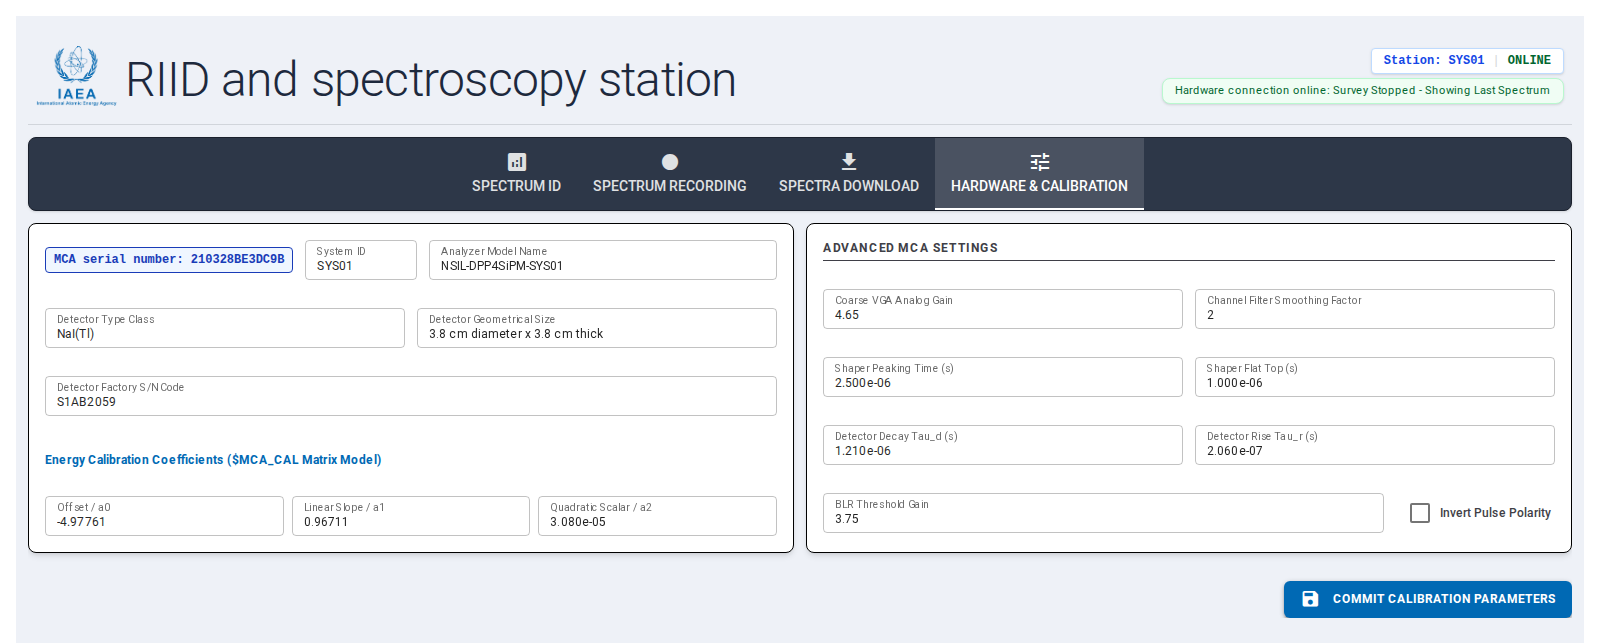
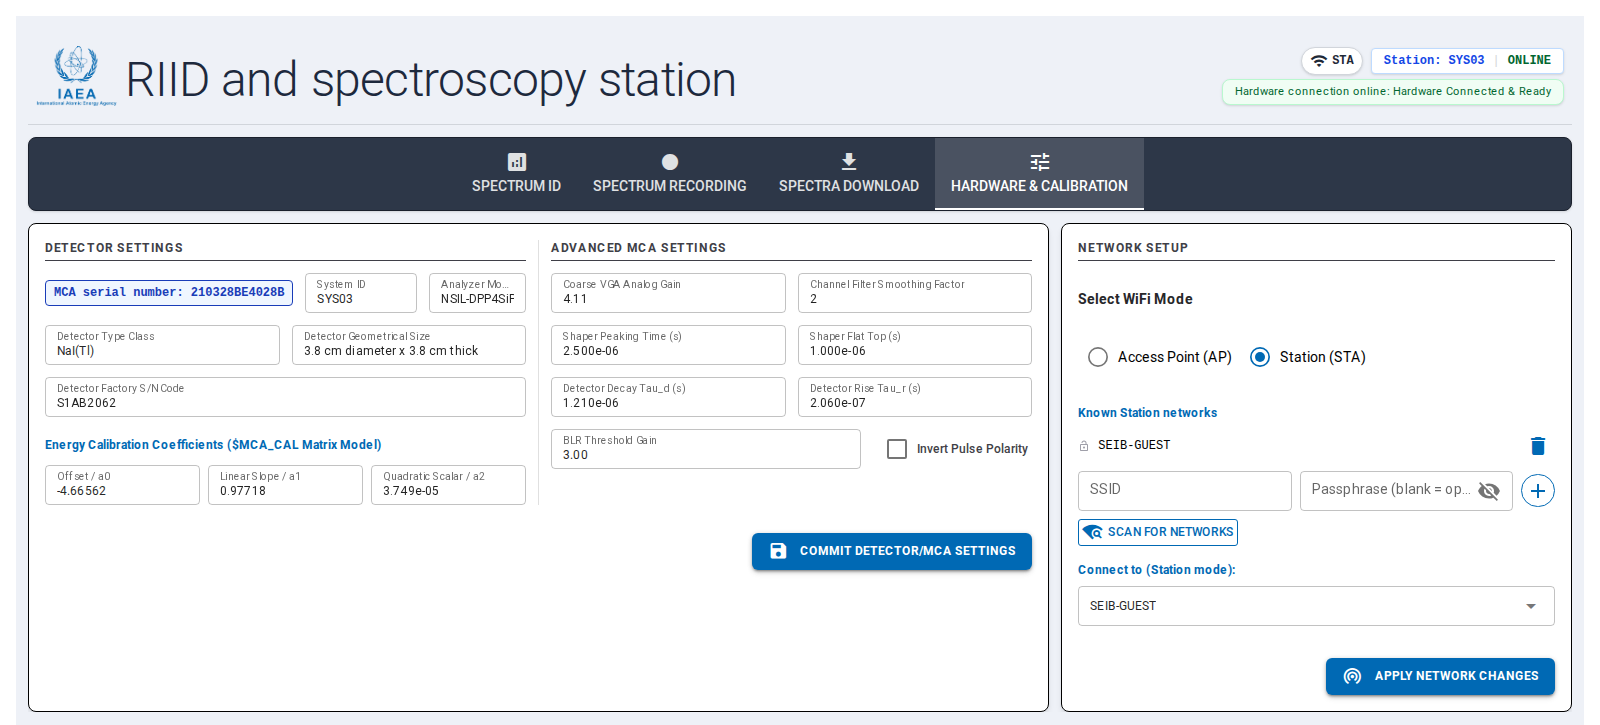
#109: update HW & calib screenshot in root Readme

diff --git a/README.md b/README.md
@@ -114,9 +114,10 @@ Bulk file management for everything the RIID system has written to disk, organiz
 - **Instrument identity** — system ID, analyzer model name, detector type/geometry/size/serial number.
 - **Energy calibration** — quadratic calibration coefficients (`a0`, `a1`, `a2`) mapping ADC channel to energy (keV).
 - **Advanced MCA/DPP settings** — VGA gain, channel smoothing, shaper peaking/flat-top times, detector rise/decay time constants, baseline restorer threshold gain, and pulse polarity inversion.
-- **Commit** — persists the profile (keyed by the board's serial number) and pushes the DPP parameters down to the physical board.
+- **Commit Detector/MCA Settings** — persists the profile (keyed by the board's serial number) and pushes the DPP parameters down to the physical board.
+- **Network Setup** — switches the system's WiFi between Access Point and Station mode. Station mode manages a list of known networks (scan for nearby ones, or add an SSID/passphrase by hand) and which one to connect to; Access Point mode sets this system's broadcast name and passphrase. Applying a change shows a warning, then a confirmation of the new settings, before taking effect.
 
-![Hardware & Calibration tab: instrument identity, energy calibration coefficients, and advanced MCA/DPP settings](docs/res/hardware_calibration.png)
+![Hardware & Calibration tab: instrument identity, energy calibration coefficients, advanced MCA/DPP settings, and Network Setup](docs/res/hardware_calibration.png)
 
 ### Physical status display (Arduino UNO Q)
 
